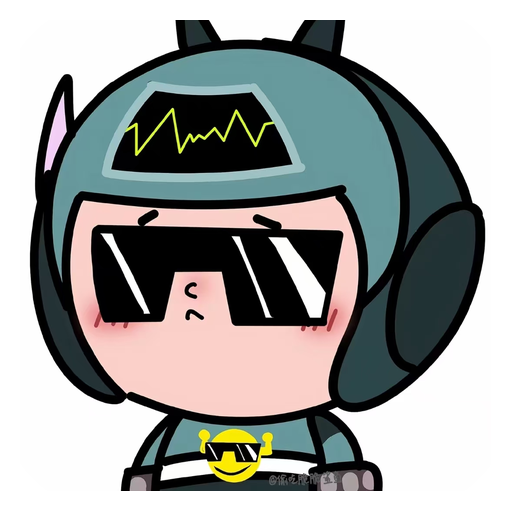
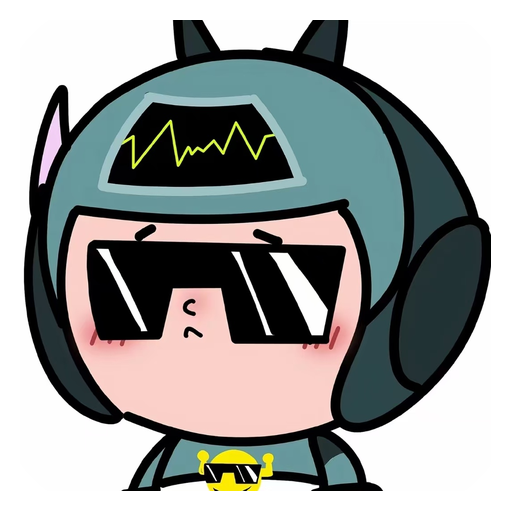
fix: 去除头像水印重制图标；订单 API 改为 Vercel 云函数+Blob，全站单站部署
- 两端图标用无水印头像重新生成
- 新增 api/ Serverless 函数(GET/POST/PATCH 订单) + @vercel/blob 持久化
- 主工作台 sw.js 排除 /api 缓存并升级缓存版本
- 更新 README Vercel 全功能部署指引(含 Blob 开通步骤)

diff --git a/api/orders.js b/api/orders.js
@@ -1,0 +1,53 @@
+/* GET /api/orders?since=  拉取订单（新→旧）
+   POST /api/orders       创建订单 */
+const { readOrders, writeOrders } = require('./_store');
+
+function cors(res) {
+  res.setHeader('Access-Control-Allow-Origin', '*');
+  res.setHeader('Cache-Control', 'no-store');
+}
+
+async function readBody(req) {
+  if (req.body && typeof req.body === 'object') return req.body;
+  let raw = '';
+  await new Promise((resolve) => {
+    req.on('data', (c) => { raw += c; });
+    req.on('end', resolve);
+  });
+  try { return JSON.parse(raw || '{}'); } catch (e) { return {}; }
+}
+
+module.exports = async (req, res) => {
+  cors(res);
+  if (req.method === 'OPTIONS') return res.status(204).end();
+
+  const orders = await readOrders();
+  if (orders === null) {
+    return res.status(503).json({ error: 'Blob 存储未连接：请在 Vercel 项目 → Storage 里创建 Blob 并连接后重新部署' });
+  }
+
+  if (req.method === 'GET') {
+    const since = parseInt((req.query && req.query.since) || 0) || 0;
+    const list = orders.filter((o) => (o.updatedAt || o.createdAt) >= since).reverse();
+    return res.status(200).json({ orders: list, serverTime: Date.now() });
+  }
+
+  if (req.method === 'POST') {
+    const data = await readBody(req);
+    const order = {
+      id: 'ord_' + Date.now() + '_' + Math.random().toString(36).slice(2, 7),
+      items: Array.isArray(data.items) ? data.items : [],
+      total: Number(data.total) || 0,
+      table: data.table || '',
+      note: data.note || '',
+      status: '待接单',
+      createdAt: Date.now(),
+      updatedAt: Date.now()
+    };
+    orders.push(order);
+    await writeOrders(orders);
+    return res.status(201).json(order);
+  }
+
+  res.status(405).json({ error: 'method not allowed' });
+};

diff --git a/api/orders/[id].js b/api/orders/[id].js
@@ -1,0 +1,24 @@
+/* PATCH /api/orders/:id  更新订单状态 */
+const { readOrders, writeOrders } = require('../_store');
+
+module.exports = async (req, res) => {
+  res.setHeader('Access-Control-Allow-Origin', '*');
+  res.setHeader('Cache-Control', 'no-store');
+  if (req.method === 'OPTIONS') return res.status(204).end();
+  if (req.method !== 'PATCH') return res.status(405).json({ error: 'method not allowed' });
+
+  const orders = await readOrders();
+  if (orders === null) {
+    return res.status(503).json({ error: 'Blob 存储未连接：请在 Vercel 项目 → Storage 里创建 Blob 并连接后重新部署' });
+  }
+
+  const id = req.query.id;
+  const idx = orders.findIndex((o) => o.id === id);
+  if (idx < 0) return res.status(404).json({ error: 'not found' });
+
+  const patch = req.body && typeof req.body === 'object' ? req.body : {};
+  if (patch.status) orders[idx].status = patch.status;
+  orders[idx].updatedAt = Date.now();
+  await writeOrders(orders);
+  res.status(200).json(orders[idx]);
+};

diff --git a/api/_store.js b/api/_store.js
@@ -1,0 +1,27 @@
+/* 订单存储（Vercel Blob）：所有 Serverless 函数共用 */
+const { put, head } = require('@vercel/blob');
+const KEY = 'orders.json';
+
+async function readOrders() {
+  // 未连接 Blob 存储时返回 null，由调用方给出友好提示
+  if (!process.env.BLOB_READ_WRITE_TOKEN) return null;
+  try {
+    const meta = await head(KEY);
+    const res = await fetch(meta.url, { cache: 'no-store' });
+    const text = await res.text();
+    const arr = JSON.parse(text || '[]');
+    return Array.isArray(arr) ? arr : [];
+  } catch (e) {
+    return []; // 文件尚不存在
+  }
+}
+
+async function writeOrders(arr) {
+  await put(KEY, JSON.stringify(arr), {
+    access: 'public',
+    addRandomSuffix: false,
+    contentType: 'application/json'
+  });
+}
+
+module.exports = { readOrders, writeOrders };

diff --git a/sw.js b/sw.js
@@ -1,5 +1,5 @@
 /* Service Worker：离线缓存，让工作台无网也能打开 */
-const CACHE = 'workbench-v1';
+const CACHE = 'workbench-v2';
 const ASSETS = [
   './',
   './index.html',
@@ -28,6 +28,7 @@ self.addEventListener('activate', (e) => {
 
 self.addEventListener('fetch', (e) => {
   if (e.request.method !== 'GET') return;
+  if (e.request.url.includes('/api/')) return; // 订单 API 不缓存
   e.respondWith(
     caches.match(e.request).then((cached) => {
       const network = fetch(e.request).then((res) => {

diff --git a/api/health.js b/api/health.js
@@ -1,0 +1,5 @@
+module.exports = (req, res) => {
+  res.setHeader('Access-Control-Allow-Origin', '*');
+  res.setHeader('Cache-Control', 'no-store');
+  res.status(200).json({ ok: true, time: Date.now(), platform: 'vercel' });
+};

diff --git a/README.md b/README.md
@@ -168,14 +168,33 @@ workbench/
 
 > 想固定网址：在 Netlify 里注册免费账号（可用邮箱/GitHub），即可保留站点并自定义域名。
 
-### 方式 B：Vercel（推荐，能自动更新）
+### 方式 B：Vercel（推荐，全部功能一个站点搞定）★
 
-1. 把仓库推到 GitHub（见下）
-2. 打开 <https://vercel.com/new> → 用 GitHub 登录 → 选择该仓库
-3. Framework Preset 选 **Other**，Build Command 留空，Output Directory 留 `.`
-4. 点 **Deploy** → 几十秒后得到 `https://xxx.vercel.app`
+> 已内置 `api/` 云函数 + Vercel Blob 存储，**点餐端下单 → 主工作台收单** 直接可用，无需额外后端。
 
-以后每次 `git push`，Vercel 会自动重新部署。
+**步骤 1：把项目部署上去（任选其一）**
+
+- **a) 拖文件夹（最快）**：在 Vercel 项目创建页把 `workbench` 文件夹直接拖到「导入项目」区域（页面会提示 "将文件夹拖拽到此"）。
+- **b) 连 GitHub**：先在本地 `git push` 到 GitHub，再到 <https://vercel.com/new> 用 GitHub 登录并选择本仓库。
+
+Framework Preset 选 **Other**，其余默认，点 **Deploy**，几十秒后得到 `https://xxx.vercel.app`。
+
+**步骤 2：开通 Blob 存储（订单同步必需，免费）**
+
+不开启这一步，订单功能会提示 503。打开方式：
+
+1. 进入刚创建的项目 → 顶部 **Storage（存储）** 标签 → 点 **Create**（创建）→ 选 **Blob**
+2. 起个名字（如 `orders`）→ 点 **Create**
+3. 在弹出的连接页点 **Connect**（连接到此项目）—— 这一步会自动注入 `BLOB_READ_WRITE_TOKEN`
+4. 回到 **Deployments** → 对最新部署点 **··· → Redeploy**（重新部署），让环境变量生效
+
+**步骤 3：验证**
+
+- 主工作台：`https://你的域名.vercel.app/`
+- 点餐端：`https://你的域名.vercel.app/canteen/`
+- 手机浏览器分别打开 → 添加到主屏幕 → 点餐端下单，主工作台「食堂订单」几秒内收到
+
+以后每次 `git push`，Vercel 自动重新部署。
 
 ### 方式 C：GitHub Pages
 
@@ -215,20 +234,17 @@ git push -u origin main
 
 ### 自定义域名（可选）
 
-在 Netlify / Vercel 后台找到 **Domains**，添加自己的域名并按提示配置 DNS 即可，免费套餐已支持。
+在 Vercel 后台 **Project → Settings → Domains**，添加自己的域名并按提示配置 DNS 即可，免费套餐已支持。
 
-### 后端部署（订单同步必需，免费）
+### 本地联调（开发用，可选）
 
-订单同步需要一个常驻服务。推荐 **Railway** 或 **Render** 免费套餐（`backend/` 已带配置文件）：
+仓库 `backend/` 提供了一个零依赖的本地版后端，会同时托管主工作台（`/`）和点餐端（`/canteen/`），订单 API 在 `/api/orders`：
 
-1. 把仓库推到 GitHub（见下）
-2. 打开 <https://railway.app> 或 <https://render.com> → 用 GitHub 登录 → **New Project → Deploy from GitHub repo**
-3. 选本仓库，Root Directory 设为 `backend`，构建命令留空，启动命令 `node server.js`
-4. 部署后得到后端网址，例如 `https://xiaoxiaoguai-canteen.up.railway.app`
+```bash
+node backend/server.js   # 默认 http://localhost:8080
+```
 
-部署完成后，在点餐端「管理 → 订单同步服务」和主工作台「设置 → 同步地址」里都填入这个后端网址，两端即打通。
-
-> 本地联调更简单：直接在仓库根目录 `node backend/server.js`，它会同时托管主工作台（`/`）和点餐端（`/canteen/`），订单 API 在 `/api/orders`。
+> 注意：`backend/` 仅是本地开发/调试用途，**部署到 Vercel 时不会用到它**（Vercel 用的是内置 `api/` 云函数）。部署前可忽略此目录。
 
 ---
 
